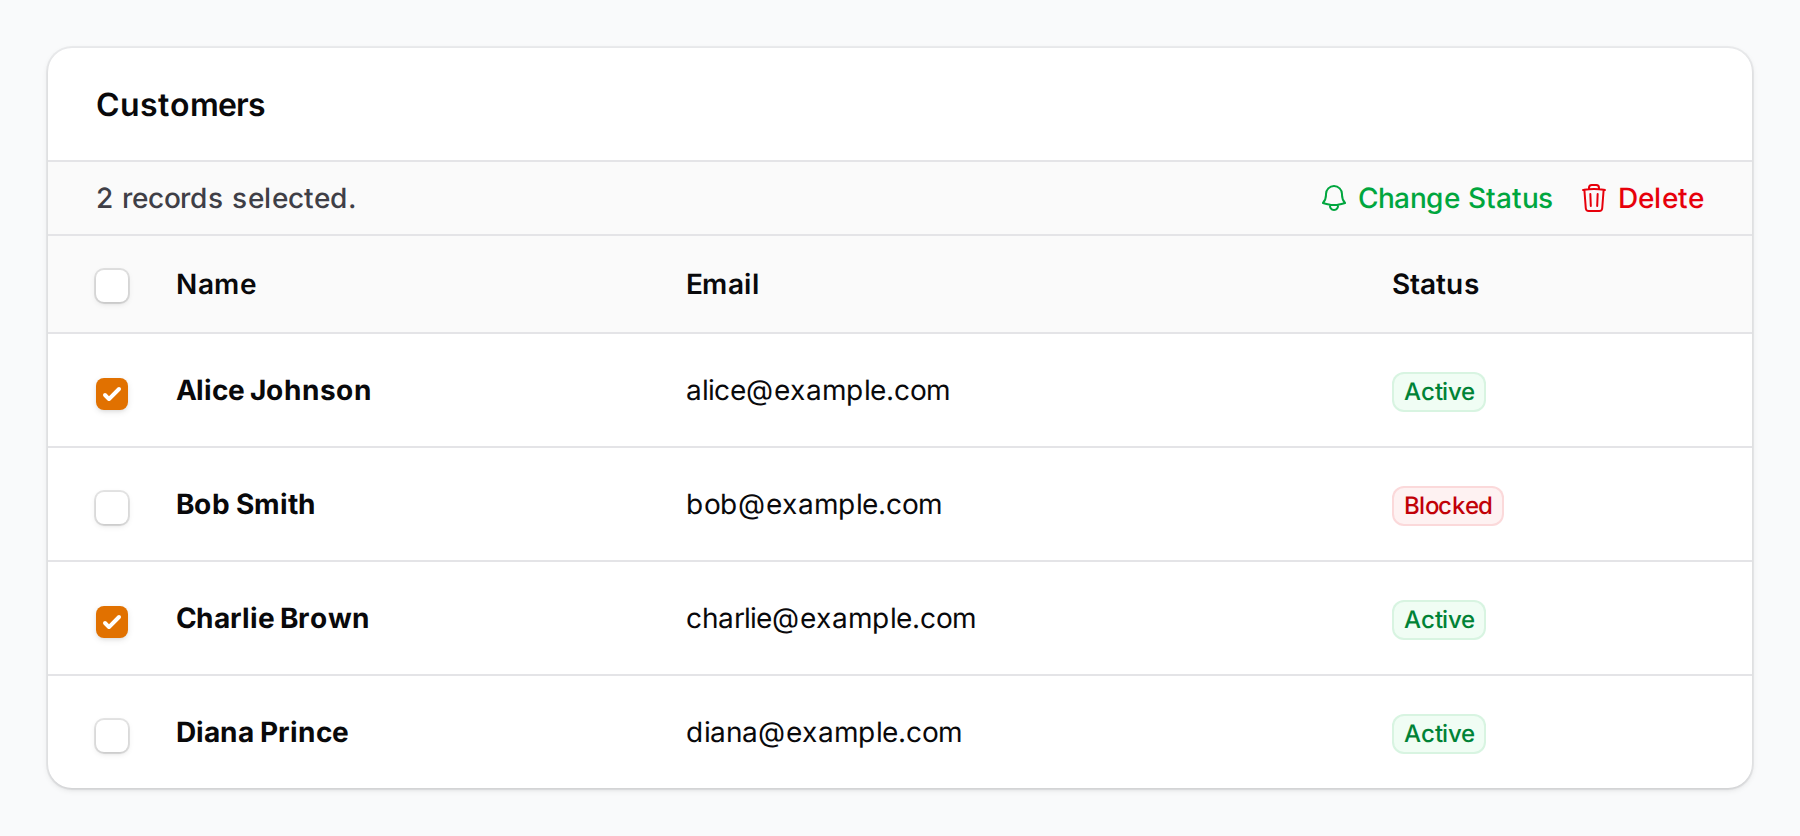
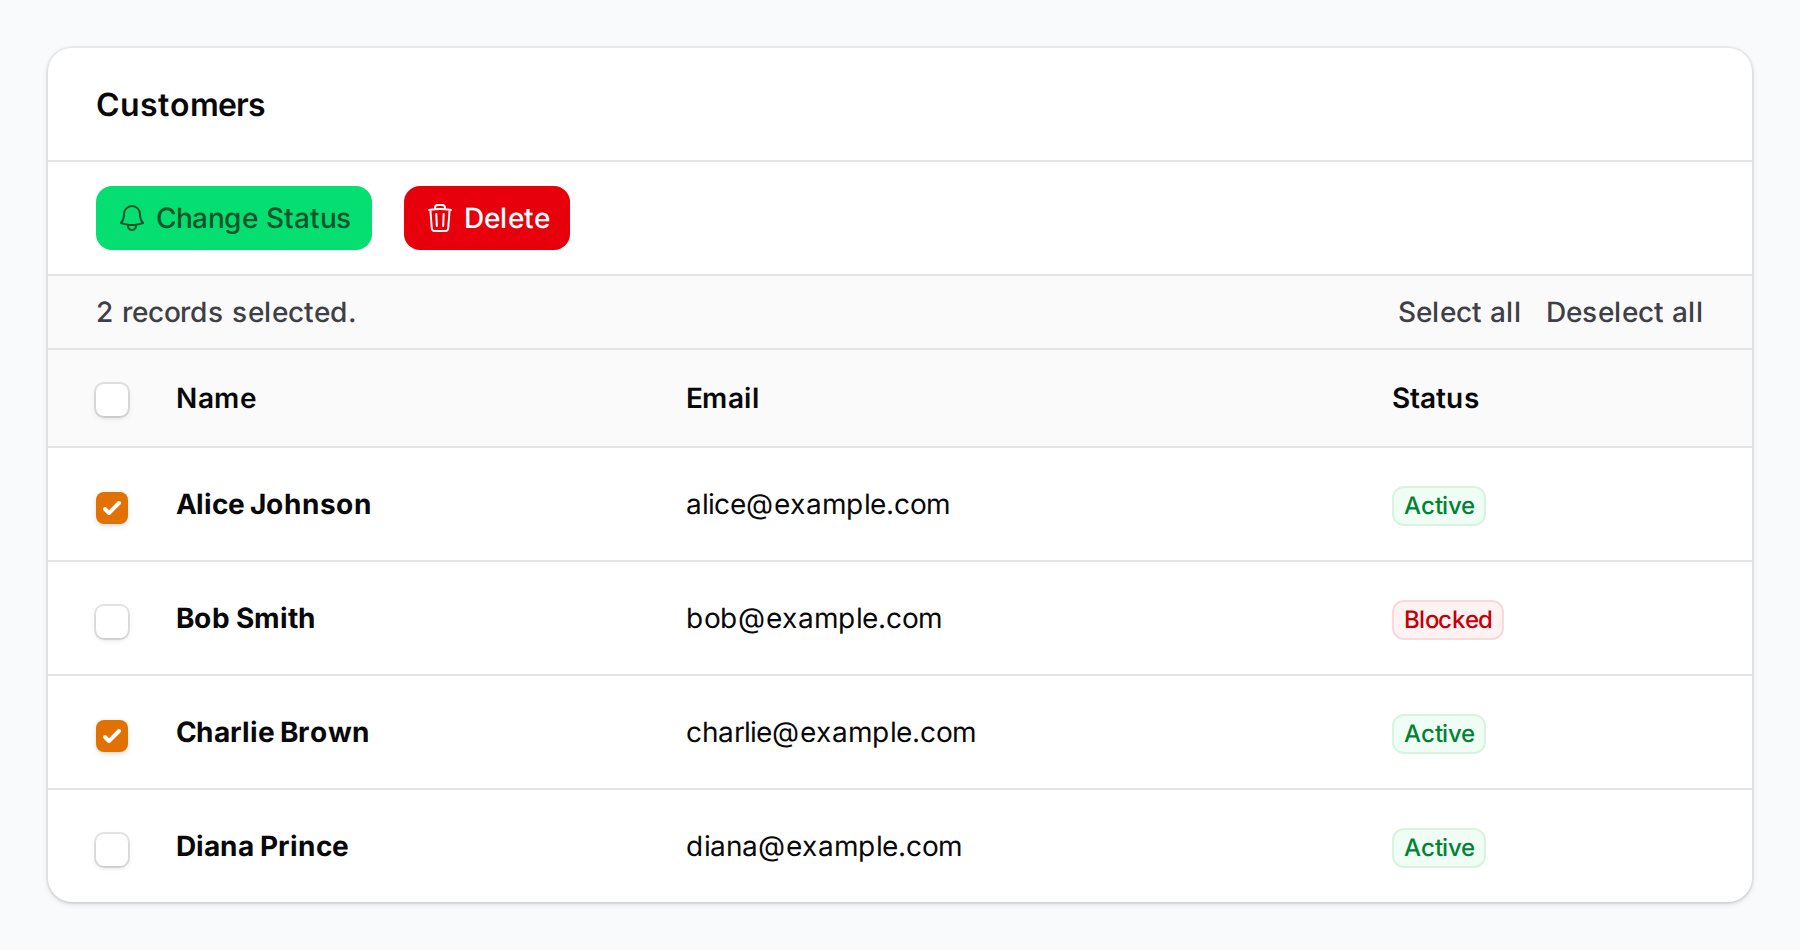
Render bulk actions as fi-btn buttons in toolbar with selection indicator
Bulk action buttons now render as proper fi-btn styled buttons in the
fi-ta-header-toolbar, matching Filament's actual UI. The selection
indicator bar shows record count with Select all / Deselect all links.

diff --git a/src/Support/ActionAdapter.php b/src/Support/ActionAdapter.php
@@ -6,6 +6,7 @@ use BackedEnum;
 use Filament\Actions\Action;
 use Filament\Support\Enums\IconSize;
 use Filament\Support\Facades\FilamentColor;
+use Filament\Support\View\Components\ButtonComponent;
 use Filament\Support\View\Components\IconButtonComponent;
 use Illuminate\Contracts\Support\Htmlable;
 use Illuminate\View\ComponentAttributeBag;
@@ -99,6 +100,39 @@ class ActionAdapter
     }
 
     /**
+     * Render as a standard button (used for toolbar/bulk actions).
+     */
+    public function renderButton(): string
+    {
+        $icon = $this->getIcon();
+        $color = $this->getColor();
+        $label = $this->getLabel();
+
+        if (blank($label)) {
+            return '';
+        }
+
+        $colorClasses = $this->resolveButtonClasses($color);
+
+        $iconHtml = '';
+        if (filled($icon)) {
+            $iconHtml = $this->safeCall(
+                fn () => \Filament\Support\generate_icon_html(
+                    $icon,
+                    attributes: new ComponentAttributeBag,
+                    size: IconSize::Small,
+                )?->toHtml(),
+                '',
+            );
+        }
+
+        return '<button type="button" class="fi-btn fi-size-sm ' . $colorClasses . '">'
+            . $iconHtml
+            . '<span class="fi-btn-label">' . e($label) . '</span>'
+            . '</button>';
+    }
+
+    /**
      * Render as a text link button (fallback when no icon).
      */
     private function renderLinkButton(string $color, ?string $label): string
@@ -159,6 +193,13 @@ class ActionAdapter
     private function resolveIconButtonClasses(string $color): string
     {
         $classes = FilamentColor::getComponentClasses(IconButtonComponent::class, $color);
+
+        return implode(' ', $classes);
+    }
+
+    private function resolveButtonClasses(string $color): string
+    {
+        $classes = FilamentColor::getComponentClasses(ButtonComponent::class, $color);
 
         return implode(' ', $classes);
     }

diff --git a/resources/views/components/table.blade.php b/resources/views/components/table.blade.php
@@ -6,12 +6,23 @@
     @endif
 
     @if(!empty($bulkActions) && !empty($selectedRows))
+        <div class="fi-ta-header-toolbar">
+            <div class="fi-ta-actions fi-align-start fi-wrapped">
+                @foreach($bulkActions as $bulkAction)
+                    {!! $bulkAction->renderButton() !!}
+                @endforeach
+            </div>
+        </div>
+
         <div class="fi-ta-selection-indicator">
             <span style="font-size: 0.875rem;">{{ count($selectedRows) }} {{ count($selectedRows) === 1 ? 'record' : 'records' }} selected.</span>
             <div class="fi-ta-selection-indicator-actions-ctn">
-                @foreach($bulkActions as $bulkAction)
-                    {!! $bulkAction->render() !!}
-                @endforeach
+                <button type="button" class="fi-link fi-size-sm fi-color-primary">
+                    <span class="fi-link-label">Select all</span>
+                </button>
+                <button type="button" class="fi-link fi-size-sm fi-color-danger">
+                    <span class="fi-link-label">Deselect all</span>
+                </button>
             </div>
         </div>
     @endif

diff --git a/tests/Unit/TableRendererTest.php b/tests/Unit/TableRendererTest.php
@@ -379,12 +379,14 @@ it('renders bulk actions with checkboxes and selection indicator', function () {
         ->toHtml();
 
     expect($html)
+        ->toContain('fi-ta-header-toolbar')
+        ->toContain('fi-btn')
+        ->toContain('fi-btn-label')
         ->toContain('fi-ta-selection-indicator')
         ->toContain('2 records selected')
         ->toContain('fi-ta-record-checkbox')
         ->toContain('fi-ta-page-checkbox')
-        ->toContain('fi-checkbox-input')
-        ->toContain('fi-link-label');
+        ->toContain('fi-checkbox-input');
 });
 
 it('renders bulk action checkboxes without selection indicator when no rows selected', function () {
